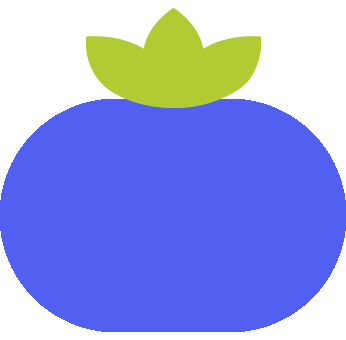
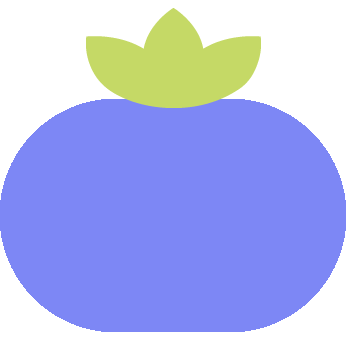
tomate fix

diff --git a/frontend/pomodoro/src/css/Timer.css b/frontend/pomodoro/src/css/Timer.css
@@ -3,34 +3,35 @@
    padding: 0;
    box-sizing: border-box;
   }
-
   .Timer{
-   display: grid;
+   margin: auto;
+   margin-top: 25px;
    align-items: center;
- }
- .Timer >*{
-   grid-column-start: 1;
-   grid-row-start: 1;
- }
- .Timer img{
-   user-select: none;
-   margin:auto;
-   margin-top: 40px;
-   width: 250px;
-   opacity: 25%;
+   background-image: url('./../assets/tomateVermelho.png');
+   background-repeat: no-repeat;
+   background-size: contain;
+   background-position: center;
+   width: 100%;
+   padding: 50px;
  }
  .Timer h1{
-   user-select: none; 
-   margin: auto;
+  user-select: none;
+   padding-bottom: 60px;
+   font-size: 14px;
    text-align: center;
-   padding-top: 100px;
+   color: white;
  }
- .Timer button{
+ .Timer h2{
+  user-select: none;
+  font-size: 32px;
+  text-align: center;
+}
+button{
    user-select: none;
    display: block;
-   z-index: +2;
+   
    margin: auto;
-   margin-top: 230px;
+   margin-top: 10px;
 
    padding: 1px;
    padding-left: 30px;
@@ -42,10 +43,10 @@
    font-size: 24px;
    color: white;
  }
- .Timer button:active{
+ button:active{
    background-color: white; 
    color: red;
  }
- .Timer button:hover{
+ button:hover{
    cursor: pointer;
  }

diff --git a/frontend/pomodoro/src/pages/MainApp/index.js b/frontend/pomodoro/src/pages/MainApp/index.js
@@ -9,10 +9,11 @@ import tomate from './../../assets/tomateVermelho.png'
         return(
             <>
             <div className="Timer">
+                <h1>Pomodoro</h1>
+                <h2>00:00</h2>
                 <button onClick={startTimer}>Start</button>
-                <img src={tomate} alt="tomate"></img>
-                <h1>00:00</h1>
             </div>
+                
             </>
         );
     }
